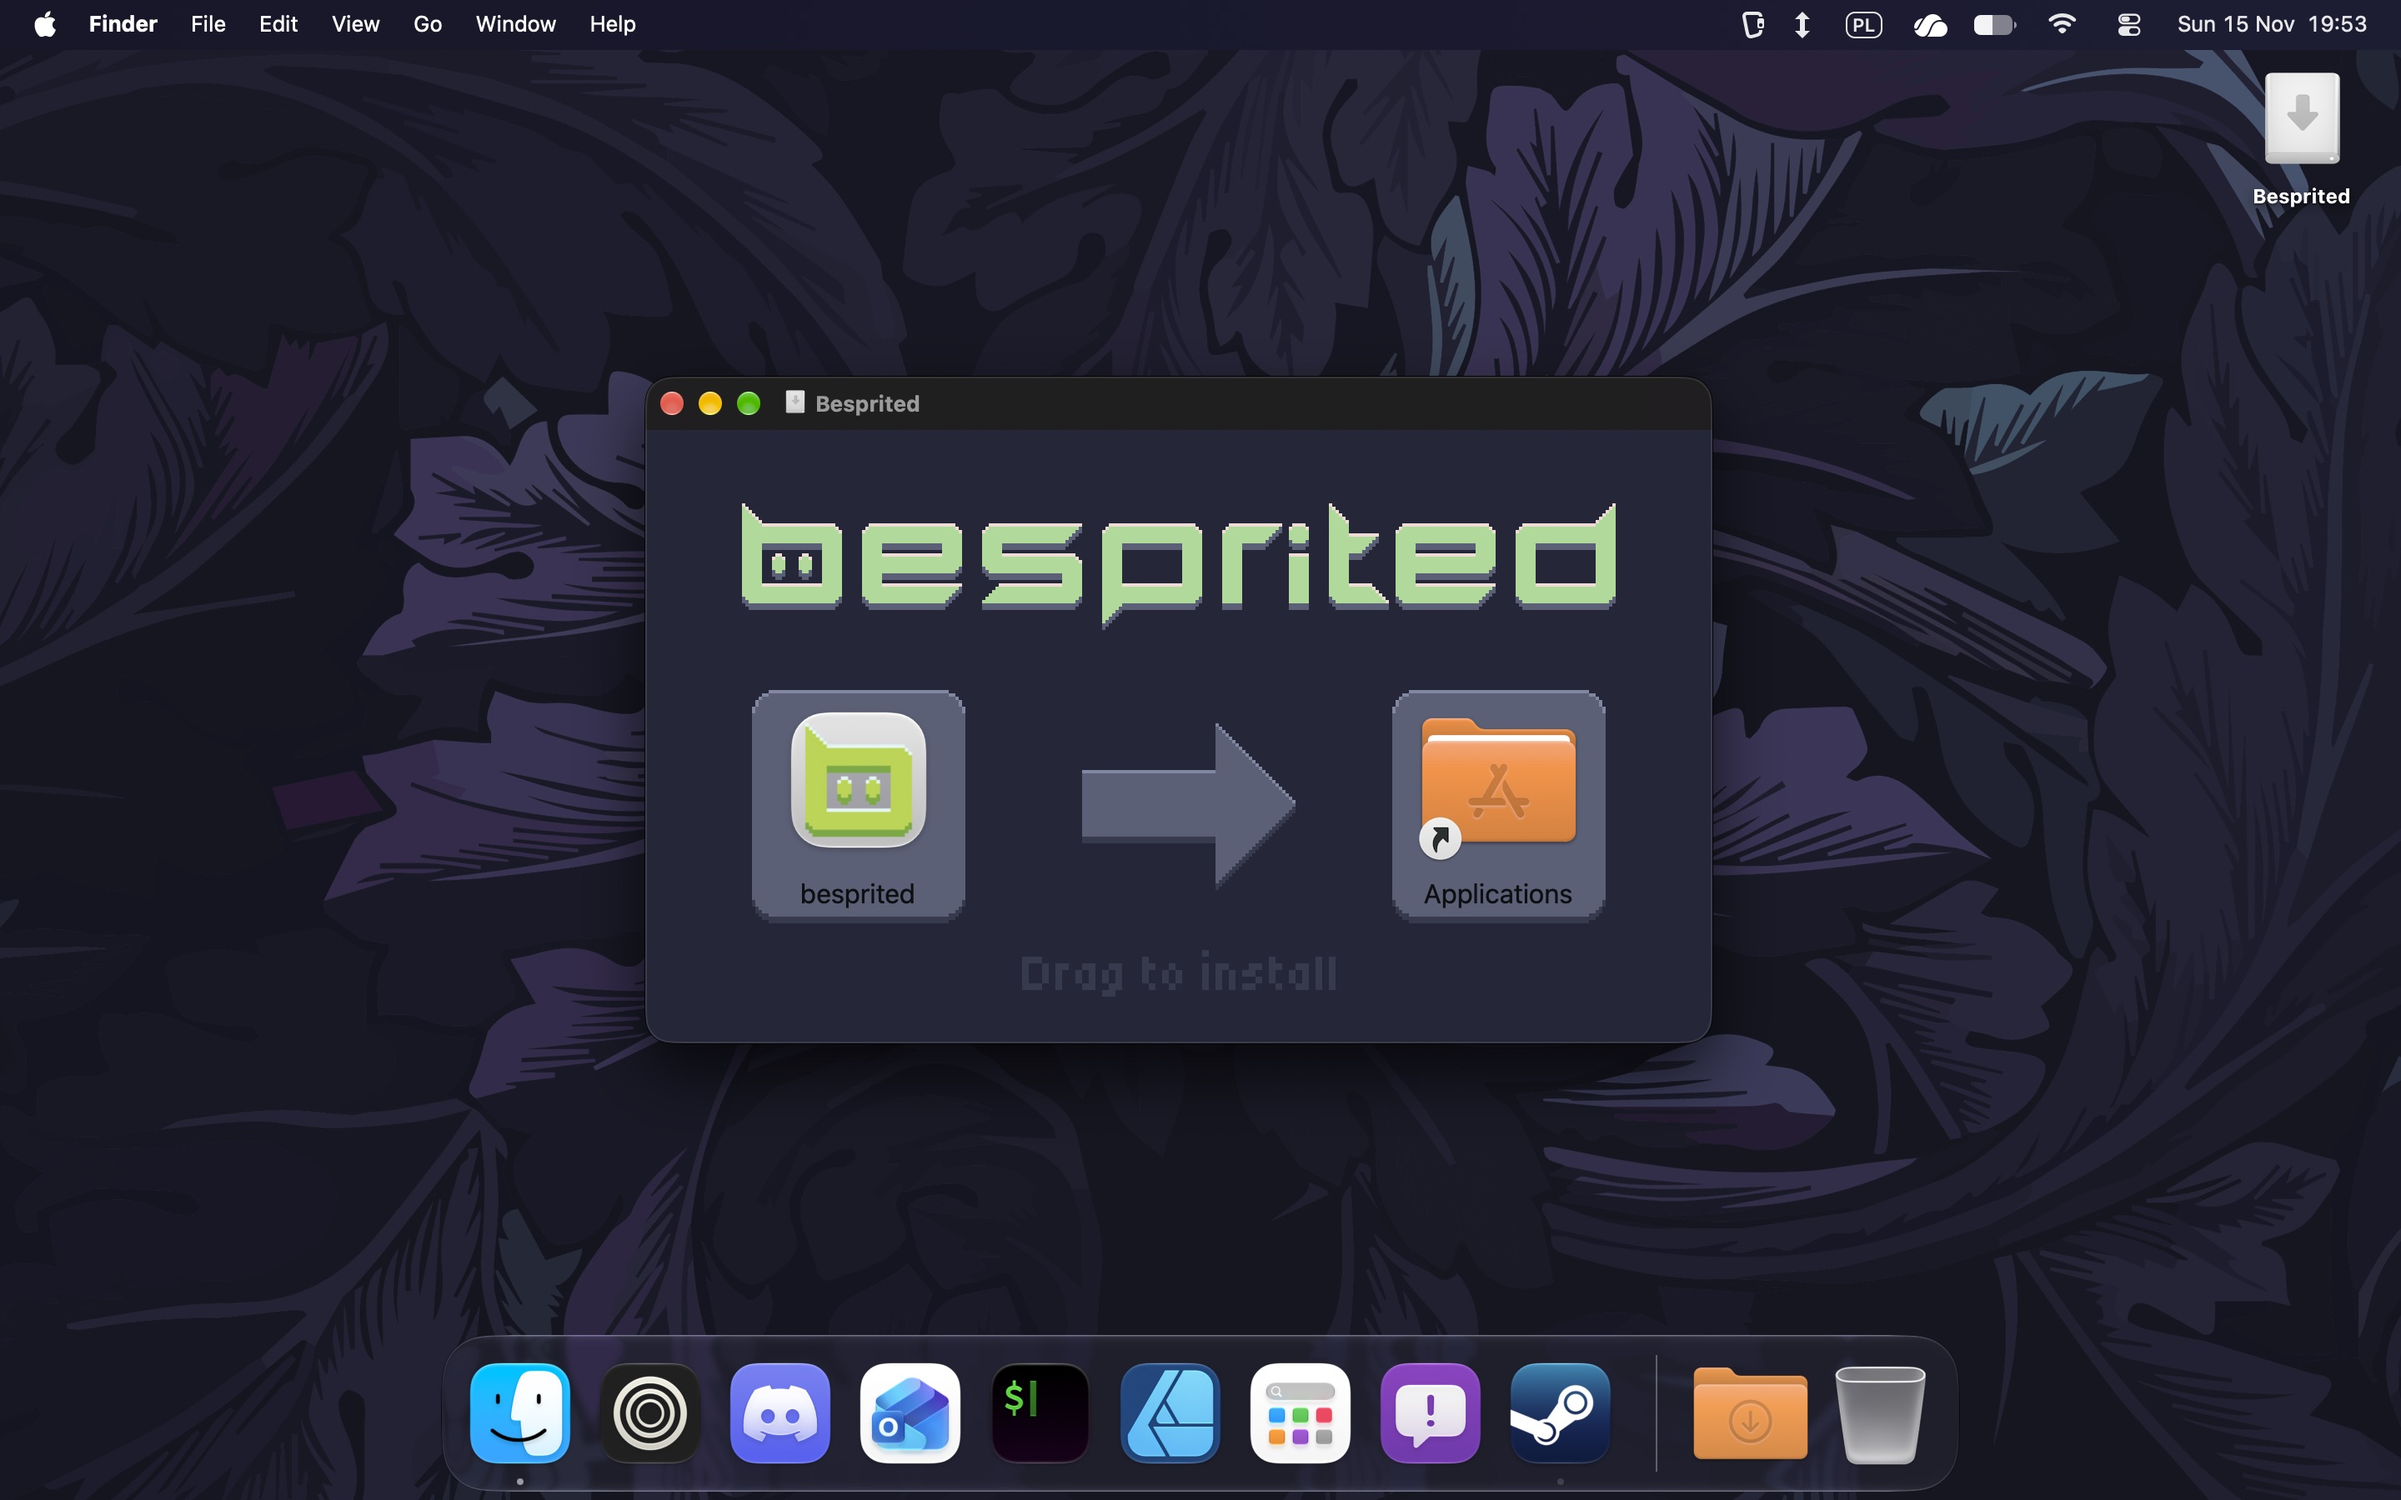
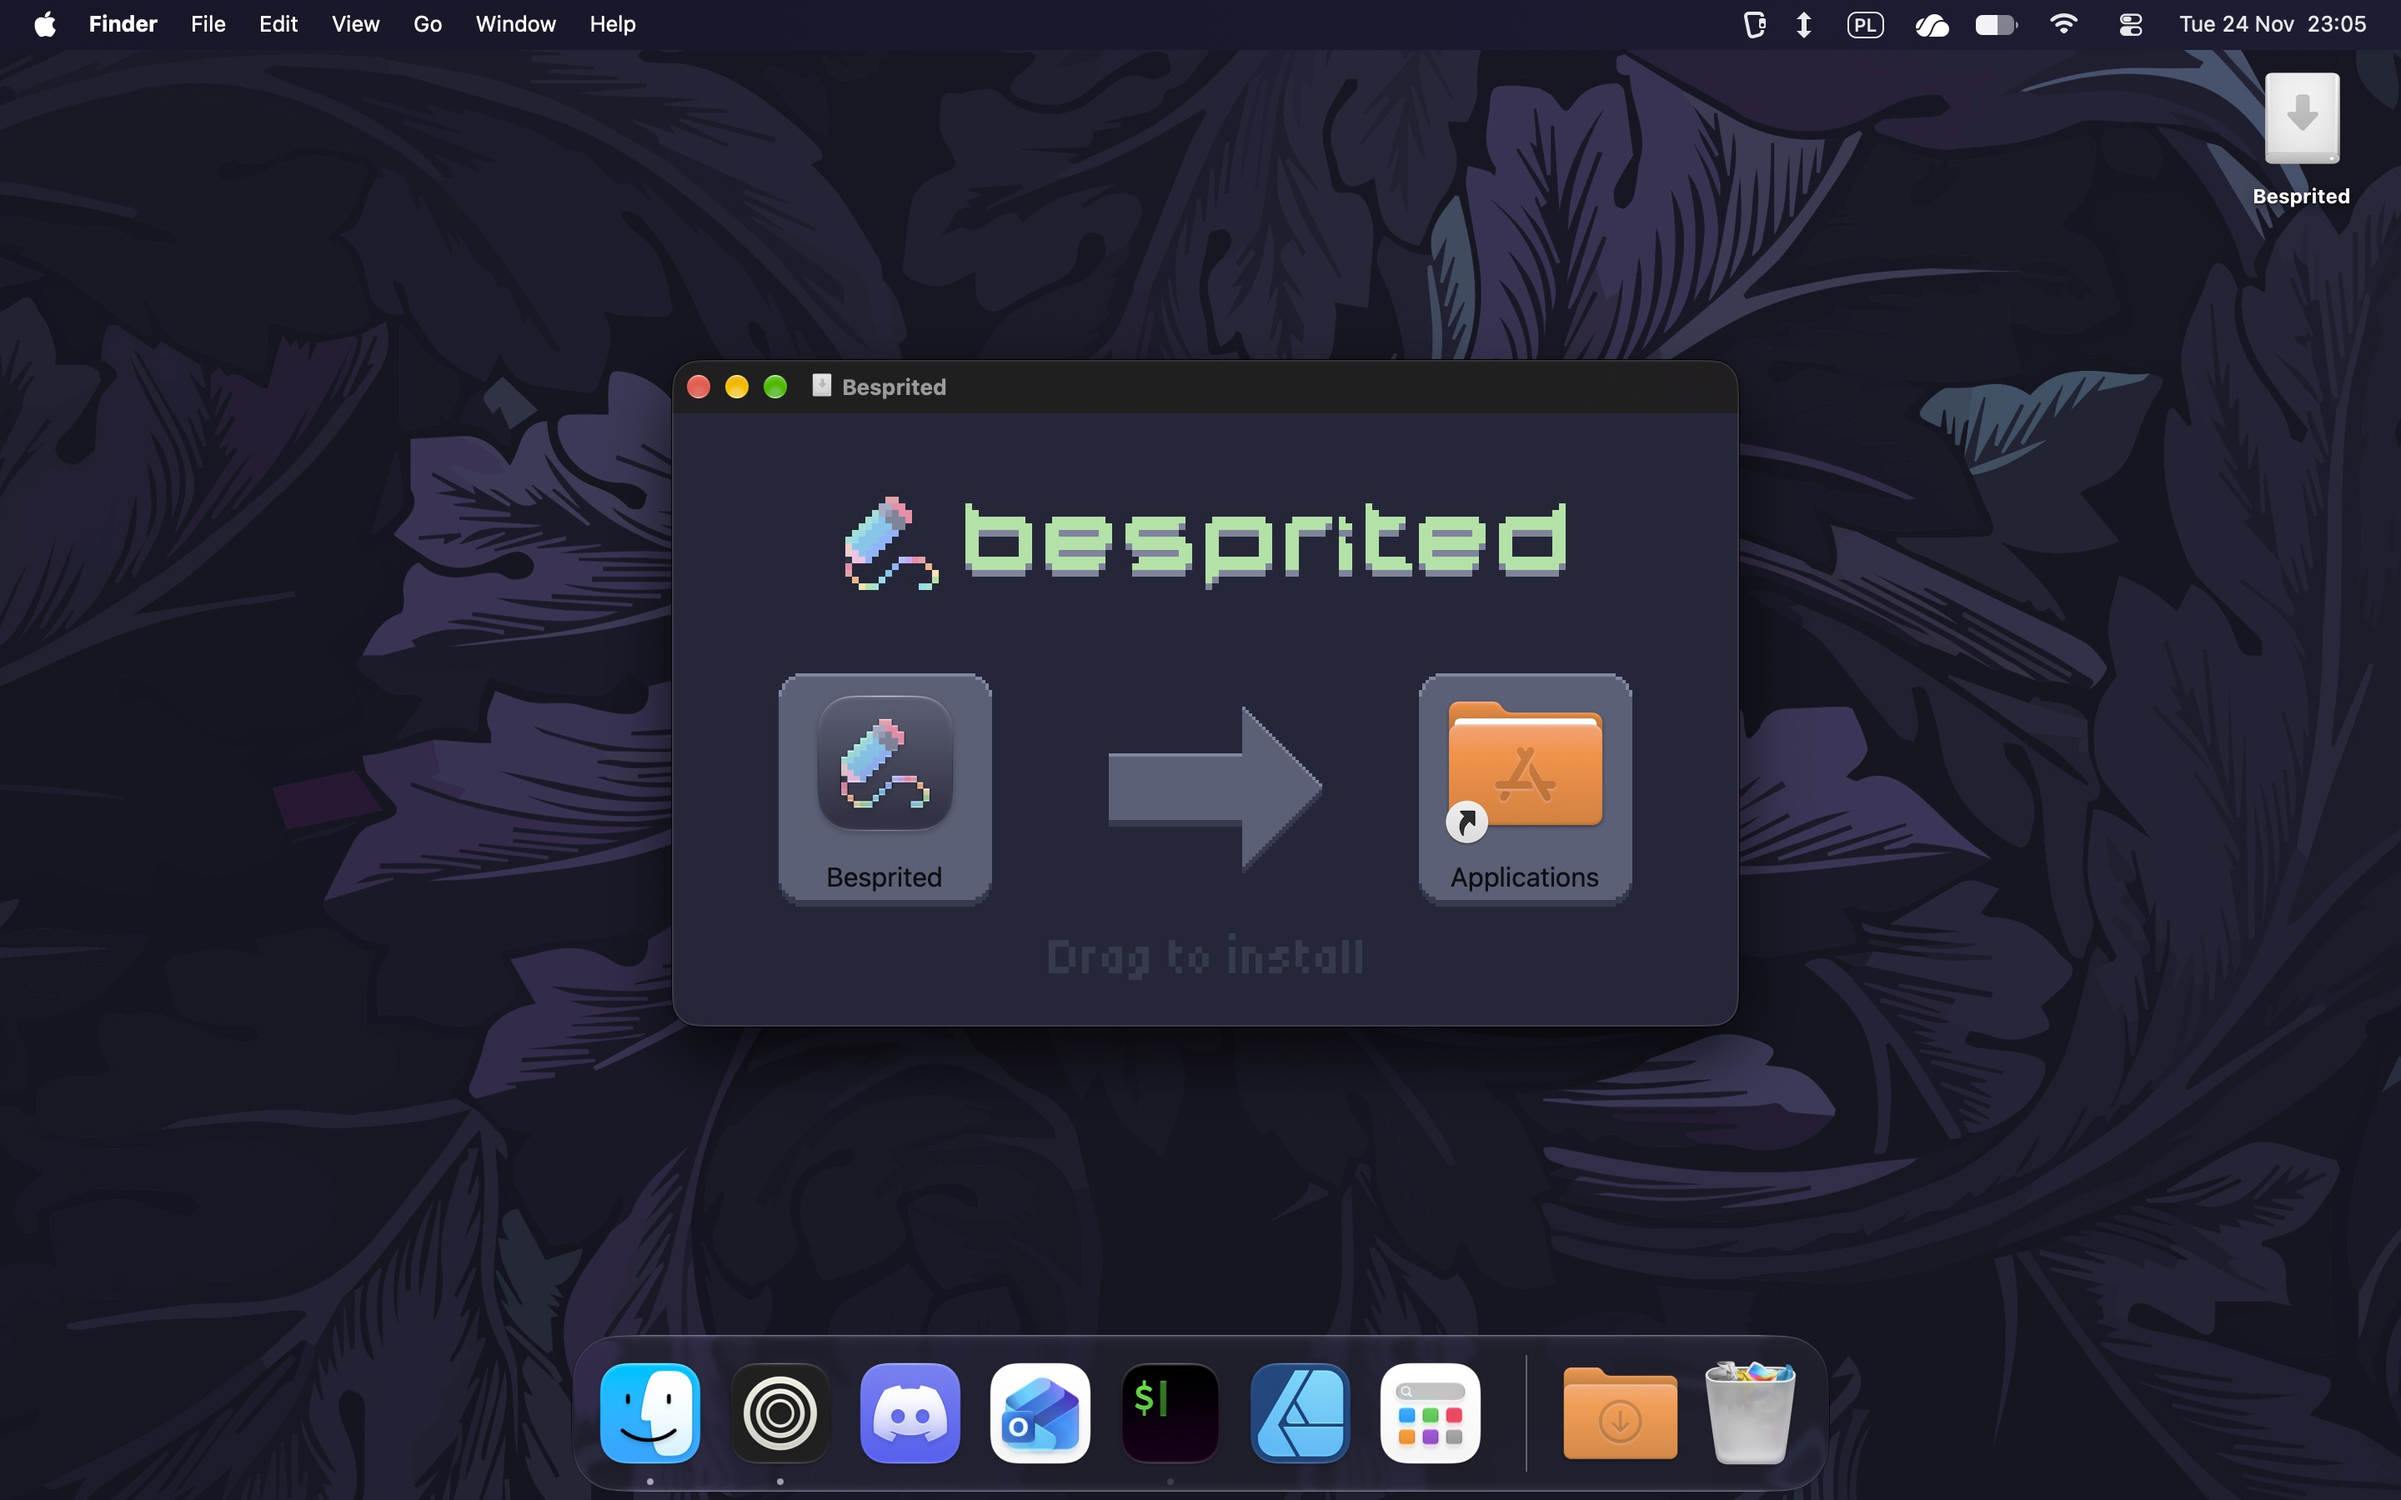
Update macOS installation steps screenshots
NO_SW_CHANGE

diff --git a/INSTALL.md b/INSTALL.md
@@ -79,7 +79,8 @@ Download the disk image for your Mac's architecture —
 A classic "drag to install" window will appear — click and drag the
 `Besprited` app onto the Applications folder.
 
-![Dragging Besprited.app into Applications](docs/install_mac_1.jpg)
+![Besprited install DMG finder window](docs/install_mac_1.jpg)
+![Dragging Besprited.app into Applications](docs/install_mac_1b.jpg)
 
 Apple Developer signing certificates are a paid subscription, and this project
 isn't funded well enough to justify one, so the app is self-signed by our
